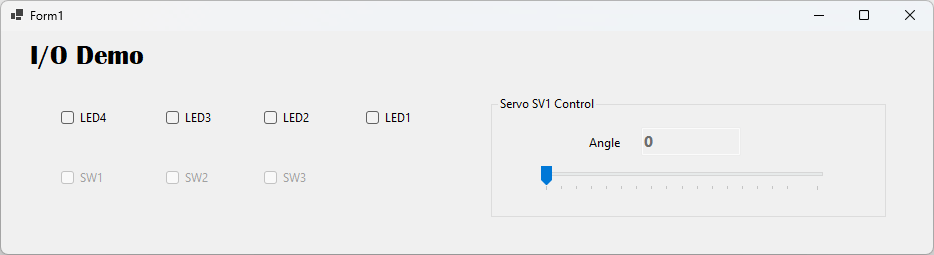
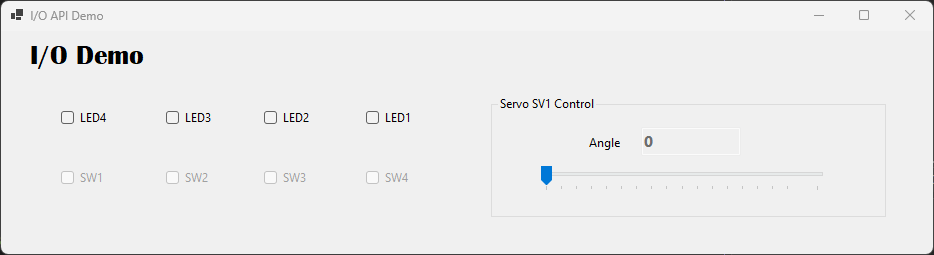
Added proximity sensor as SW4

Changed region(s): [[0.0, 0.0, 1.0, 1.0], [0.4036, 0.6588, 0.4347, 0.7137]]

diff --git a/SerialLedBtnLibEx/Form1.cs b/SerialLedBtnLibEx/Form1.cs
@@ -18,6 +18,7 @@ namespace SerialLedBtnLibEx
         private async void Form1_Load(object sender, EventArgs e)
         {
             //Set up GUI
+            this.Text = " I/O API Demo";
             checkBox1.Text = "LED1";
             checkBox2.Text = "SW1";
             checkBox3.Text = "LED2";
@@ -25,6 +26,7 @@ namespace SerialLedBtnLibEx
             checkBox5.Text = "LED3";
             checkBox6.Text = "SW3";
             checkBox7.Text = "LED4";
+            checkBox8.Text = "SW4";
             this.textBox1.Text = "0";
 
             // Connect over BLE (Nordic UART Service) instead of the wired COM port.
@@ -43,6 +45,7 @@ namespace SerialLedBtnLibEx
             jsonSerialController.ButtonControl["SW1"].SwitchStateChanged += Form1_SwitchStateChanged;
             jsonSerialController.ButtonControl["SW2"].SwitchStateChanged += Form1_SwitchStateChanged;
             jsonSerialController.ButtonControl["SW3"].SwitchStateChanged += Form1_SwitchStateChanged;
+            jsonSerialController.ButtonControl["SW4"].SwitchStateChanged += Form1_SwitchStateChanged;
         }
         // Husk:
         // Nå er vi i serie-port tråden (bakgrunnstråden til serieportens datamotaks tråd)
@@ -59,6 +62,9 @@ namespace SerialLedBtnLibEx
 
             if (e.Id == "SW3")
             { checkBox6.BeginInvoke(() => checkBox6.Checked = Convert.ToBoolean(e.Value)); }
+
+            if (e.Id == "SW4")
+            { checkBox8.BeginInvoke(() => checkBox8.Checked = Convert.ToBoolean(e.Value)); }
 
         }
 

diff --git a/SerialLedBtnLibEx/Form1.Designer.cs b/SerialLedBtnLibEx/Form1.Designer.cs
@@ -40,6 +40,7 @@
             label2 = new Label();
             textBox1 = new TextBox();
             groupBox1 = new GroupBox();
+            checkBox8 = new CheckBox();
             ((System.ComponentModel.ISupportInitialize)trackBar1).BeginInit();
             groupBox1.SuspendLayout();
             SuspendLayout();
@@ -172,11 +173,23 @@
             groupBox1.Text = "Servo SV1 Control";
             groupBox1.Enter += groupBox1_Enter;
             // 
+            // checkBox8
+            // 
+            checkBox8.AutoSize = true;
+            checkBox8.Enabled = false;
+            checkBox8.Location = new Point(365, 138);
+            checkBox8.Name = "checkBox8";
+            checkBox8.Size = new Size(82, 19);
+            checkBox8.TabIndex = 13;
+            checkBox8.Text = "checkBox8";
+            checkBox8.UseVisualStyleBackColor = true;
+            // 
             // Form1
             // 
             AutoScaleDimensions = new SizeF(7F, 15F);
             AutoScaleMode = AutoScaleMode.Font;
             ClientSize = new Size(932, 223);
+            Controls.Add(checkBox8);
             Controls.Add(checkBox7);
             Controls.Add(checkBox5);
             Controls.Add(checkBox6);
@@ -210,5 +223,6 @@
         private Label label2;
         private TextBox textBox1;
         private GroupBox groupBox1;
+        private CheckBox checkBox8;
     }
 }

diff --git a/Firmware/Micropython/jsonSerialAndBLE/serialBleJSONLedAndSwitches.py b/Firmware/Micropython/jsonSerialAndBLE/serialBleJSONLedAndSwitches.py
@@ -110,6 +110,7 @@ switches = {
     "SW1": Pin(10, Pin.IN, Pin.PULL_DOWN),
     "SW2": Pin(11, Pin.IN, Pin.PULL_DOWN),
     "SW3": Pin(12, Pin.IN, Pin.PULL_DOWN),
+    "SW4": Pin(16, Pin.IN),
 }
 
 
@@ -143,11 +144,16 @@ def SW2Changed(sw):
 def SW3Changed(sw):
     _queue_switch("SW3", sw)
 
+def SW4Changed(sw):
+    _queue_switch("SW4", sw)
+
 
 def flushSwitchEvents():
     """Emit any queued switch events from normal (non-IRQ) context."""
-    while _switch_events:
+    while _switch_events:        
         sw_id, value = _switch_events.pop(0)
+        if(sw_id == "SW4") :
+            value=value ^ 1 # toogle value , so that when a bobject is near the value is 1
         emit('{"switches": [{"id": "%s", "value": %d}]}' % (sw_id, value))
 
 
@@ -155,6 +161,7 @@ def flushSwitchEvents():
 switches["SW1"].irq(trigger=Pin.IRQ_FALLING | Pin.IRQ_RISING, handler=SW1Changed)
 switches["SW2"].irq(trigger=Pin.IRQ_FALLING | Pin.IRQ_RISING, handler=SW2Changed)
 switches["SW3"].irq(trigger=Pin.IRQ_FALLING | Pin.IRQ_RISING, handler=SW3Changed)
+switches["SW4"].irq(trigger=Pin.IRQ_FALLING | Pin.IRQ_RISING, handler=SW4Changed)
 
 
 # ---- Command handlers ----------------------------------------------------

diff --git a/SerialLedBtnLibEx/JsonSerialController.cs b/SerialLedBtnLibEx/JsonSerialController.cs
@@ -321,6 +321,7 @@ namespace SerialLedBtnLibEx
             new Switch("SW1"),
             new Switch("SW2"),
             new Switch("SW3"),
+            new Switch("SW4"),
         };
 
         /// <summary>
